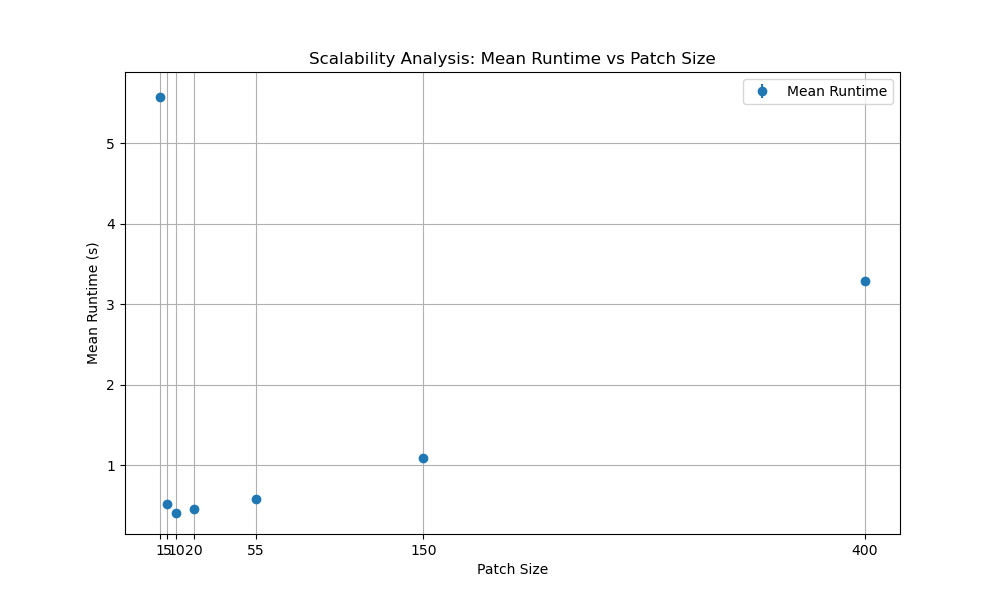
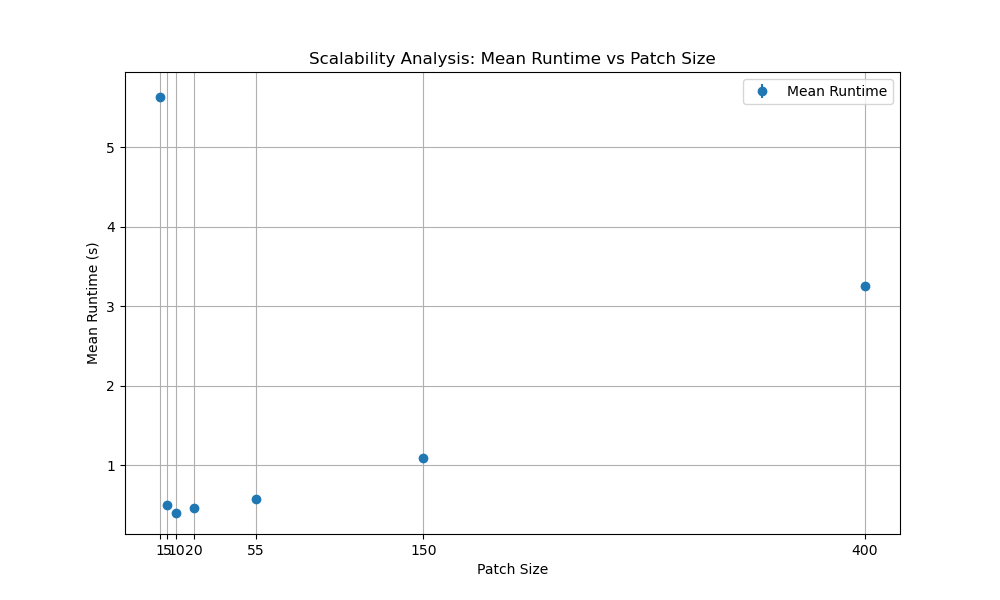
Aded exercise_2_4

Changed region(s): [[0.093, 0.63, 0.899, 0.66], [0.093, 0.36, 0.899, 0.39], [0.837, 0.45, 0.868, 0.48]]

diff --git a/exercise_2_4.py b/exercise_2_4.py
@@ -1,0 +1,104 @@
+import subprocess
+import numpy as np
+import matplotlib.pyplot as plt
+import pandas as pd
+
+# Parameters for the scalability analysis
+patch_sizes = range(1,41)
+#processor_counts = [1, 2, 4, 8, 16, 24, 32]
+#fixed proc count
+nprocs = 24
+#patch_size = 22
+repetitions = 3
+#Fixed size
+size = 850
+# Store results
+cflags = ["--benchmark",""]
+results = []
+raw_results = []
+srun_precommand = "srun -p q_student -t 1 -N 1 -c 32"
+
+
+
+    
+print(f"Starting scalability analysis for cs ...")
+print("patch size| Processors | Mean runtime (s) | Std. dev. (s)")
+print("-" * 70)
+for patch_size in patch_sizes:
+
+    runtimes = []
+
+    for rep in range(repetitions):
+        cmd = f"{srun_precommand} python3 julia_set/julia_par.py --size {size} --nprocs {nprocs} --patch {patch_size}"
+        output = subprocess.check_output(cmd, shell=True, text=True)
+        _, _, _, runtime_str = output.strip().split(';')
+        runtimes.append(float(runtime_str))
+        raw_results.append({
+        'problem_size': size,
+        'nprocs': nprocs,
+        'runtime': float(runtime_str),
+        'patch_size': patch_size,
+        'c': "cs",
+        "run_rep": rep
+    })
+        
+    # if nprocs == 1:
+    #     mean_sequential_runtime = np.mean(runtimes)
+
+    # Calculate statistics
+    mean_runtime = np.mean(runtimes)
+    std_runtime = np.std(runtimes)
+
+    # Calculate speedup and efficiency
+    #speedup = mean_sequential_runtime / mean_runtime
+    #efficiency = speedup / nprocs
+
+    print(f"{patch_size:11} | {nprocs:10} | {mean_runtime:.6f} ± {std_runtime:.6f} ")
+        
+        
+    results.append({
+        'problem_size': size,
+        'nprocs': nprocs,
+        'mean_runtime': mean_runtime,
+        'std_runtime': std_runtime,
+        'patch_size': patch_size,
+        'c': "cs"
+    })
+# Convert results to DataFrame
+df = pd.DataFrame(results)
+df_raw = pd.DataFrame(raw_results)
+
+#plot x patchsize 
+#plot y mean_runtime
+plt.figure(figsize=(10, 6))
+plt.errorbar(df['patch_size'], df['mean_runtime'], yerr=df['std_runtime'], fmt='o', label='Mean Runtime')
+plt.title('Scalability Analysis: Mean Runtime vs Patch Size')
+plt.xlabel('Patch Size')
+plt.ylabel('Mean Runtime (s)')
+plt.xticks(df['patch_size'])
+#anotate patchsize where mean_runtime is minimum
+min_index = df['mean_runtime'].idxmin()
+min_patch_size = df['patch_size'][min_index]
+min_runtime = df['mean_runtime'][min_index]
+
+plt.annotate(f'Minimum runtime at patch size {min_patch_size} with runtime {min_runtime:.3f}s',
+             xy=(min_patch_size, min_runtime), 
+             xytext=(min_patch_size + 5, min_runtime + 0.5),
+             arrowprops=dict(facecolor='black', arrowstyle='->'),
+             fontsize=10,
+             color='red')
+
+# display error bars on the plot for each point std_runtime
+#plt.errorbar(df['patch_size'], df['mean_runtime'], yerr=df['std_runtime'], fmt='o', label='Mean Runtime')
+
+plt.grid()
+plt.legend()
+plt.savefig('plots/scalability_analysis_cs_2_4.png')
+
+
+# Save results to CSV
+df.to_csv('results/scalability_analysis_runs_2_4_mean.csv', index=False)
+df_raw.to_csv('results/scalability_analysis_runs_2_4_raw.csv', index=False)
+
+print("\nAnalysis complete. Results saved to scalability_analysis.csv")
+print("Plot saved to scalability_analysis.png")
